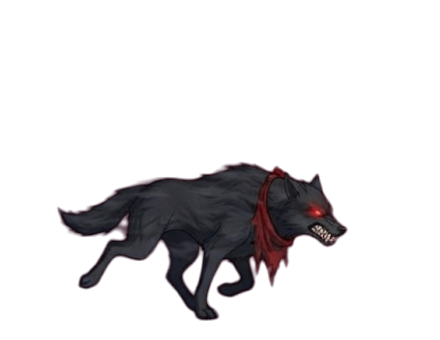
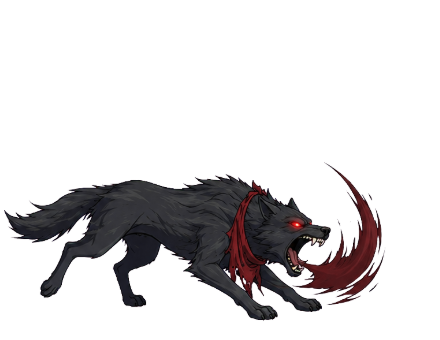
흑풍 늑대 공격 그림 (웅크림·도약·물기·착지, ChatGPT)

Changed region(s): [[0.0, 0.4706, 0.8864, 0.9412], [0.7386, 0.4706, 0.7682, 0.5], [0.4432, 0.6176, 0.4727, 0.6471]]

diff --git a/js/10_render_actors.js b/js/10_render_actors.js
@@ -221,7 +221,7 @@ const SKIN_ART = {
   mob_white_tiger: { key: 'mob_white_tiger', h: 150 }, // 옆으로 긴 그림이라 작게 잘라서(180px) 키를 크게
   mob_ice_spider: { key: 'mob_ice_spider', h: 170 },
   mob_poison_spider: { key: 'mob_poison_spider', h: 170 },
-  mob_black_wolf: { key: 'mob_black_wolf', h: 150 } // 거미·늑대 공격 그림은 아직 걷기 그림 복사본 (제미나이 공격 요청 실패, 다시 그릴 것)
+  mob_black_wolf: { key: 'mob_black_wolf', h: 150 } // 공격 그림은 ChatGPT. 거미 공격은 아직 걷기 그림 복사본
 };
 function enemyArt(e) {
   if (e.art) {
